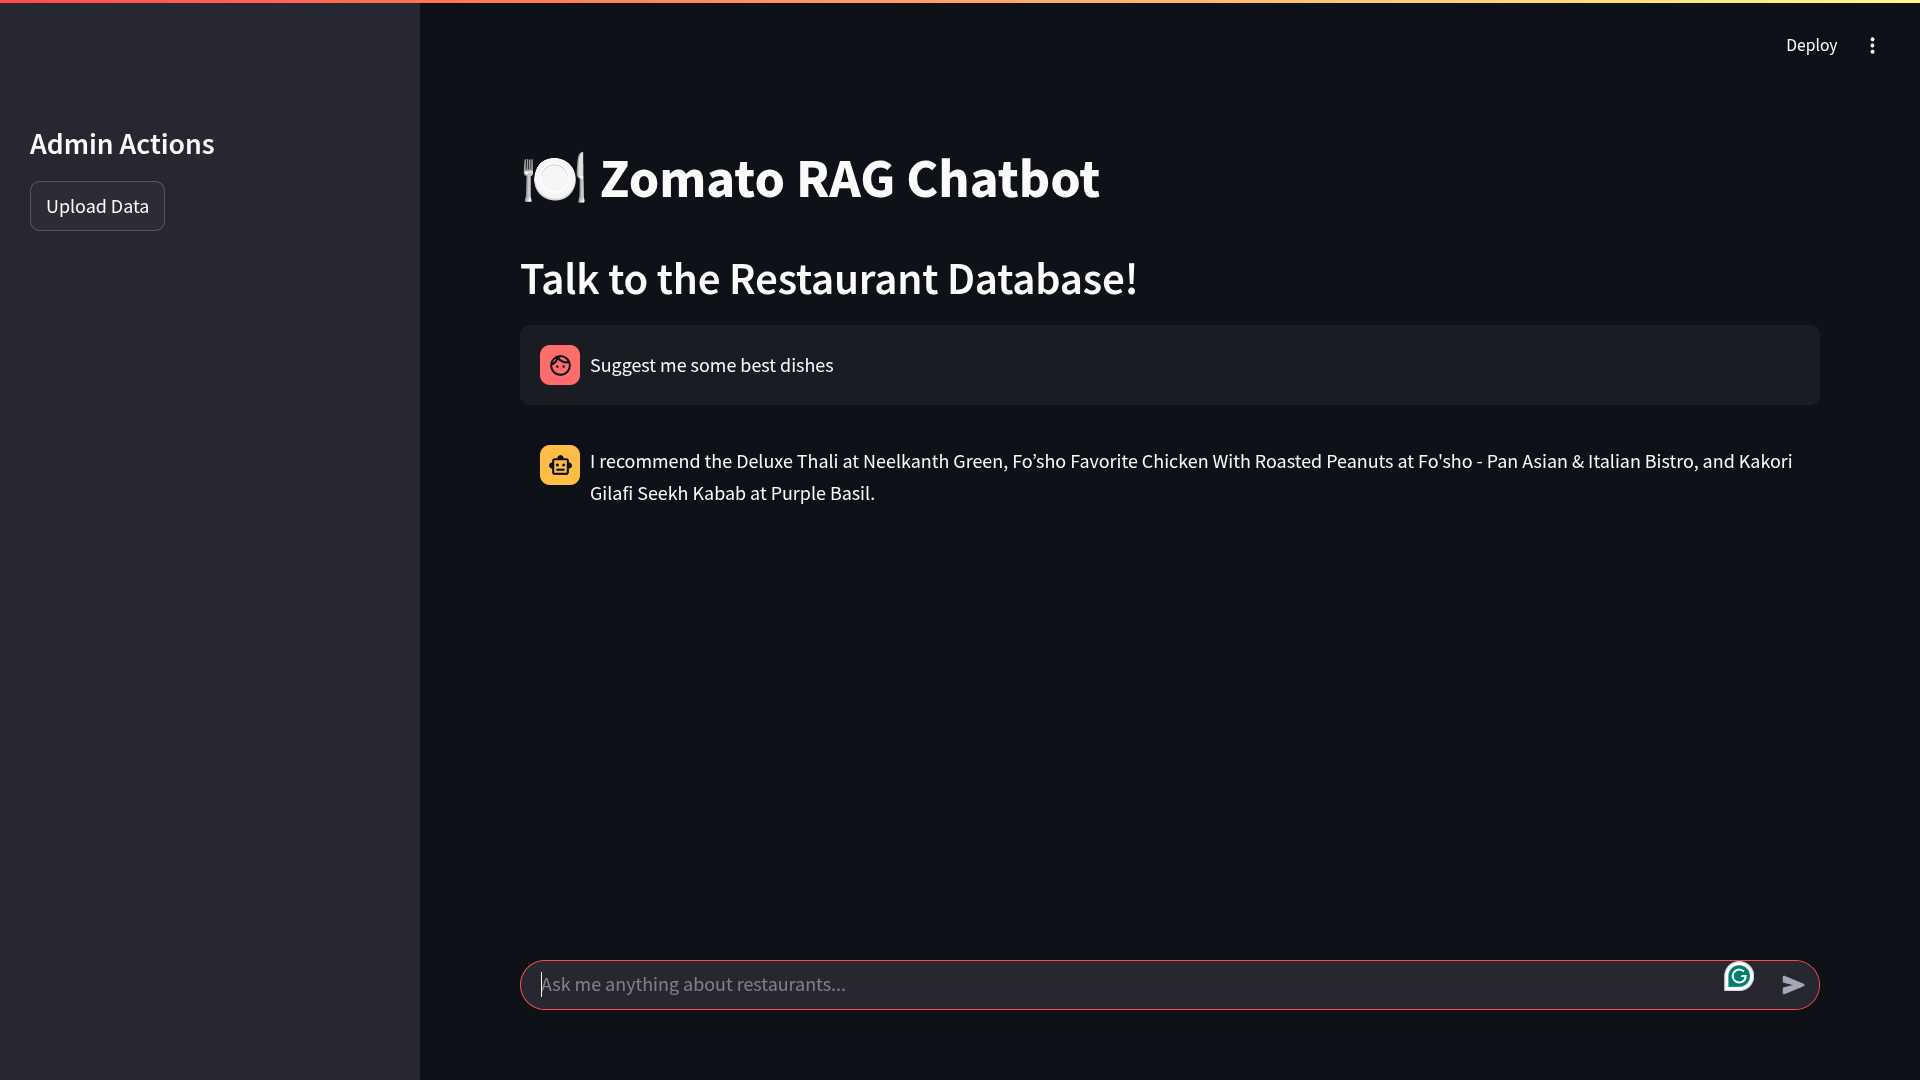
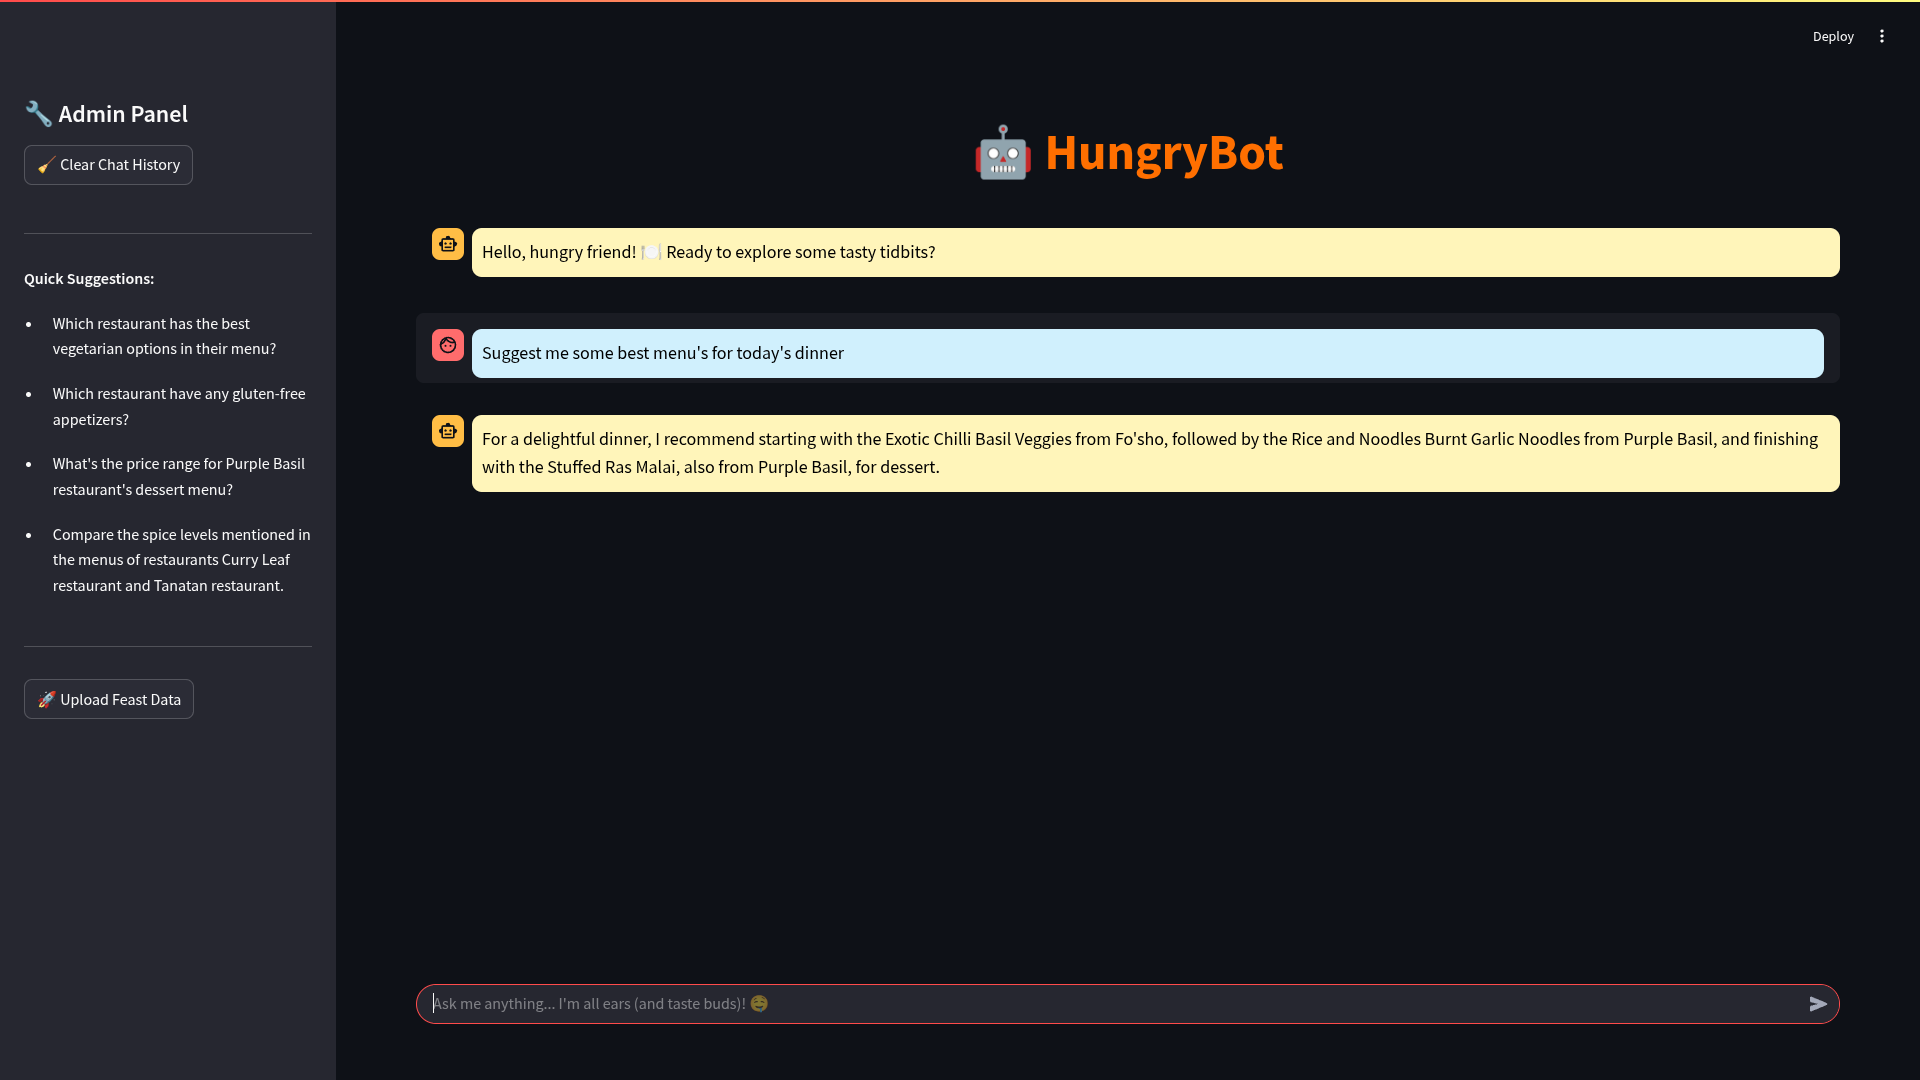
Update README and enhance Streamlit UI for HungryBot: add badges, improve layout, and refine chat interface

diff --git a/rag/main.py b/rag/main.py
@@ -15,7 +15,7 @@ from utils.llm import generate_content
 # Load environment variables
 load_dotenv()
 
-uri=os.getenv("MONGODB_URI")
+uri = os.getenv("MONGODB_URI")
 
 # MongoDB setup
 client = AsyncIOMotorClient(uri)
@@ -141,46 +141,94 @@ async def chat_bot(message):
 
     return response
 
-# ---------- STREAMLIT APP UI ----------
+# ---------- STREAMLIT APP UI (Improved) ----------
 
-st.set_page_config(page_title="Zomato RAG Chatbot", page_icon="🍽", layout="wide")
+st.set_page_config(page_title="🍽 HungryBot - Your Restaurant Guide", page_icon="🤖", layout="wide")
 
-st.title("🍽 Zomato RAG Chatbot")
+# Custom CSS for header and chat bubbles
+st.markdown("""
+    <style>
+    .header-title {
+        text-align: center;
+        font-size: 50px;
+        font-weight: bold;
+        color: #FF6F00;
+        margin-bottom: 20px;
+    }
+    .user-message {
+        background-color: #D0F0FD;
+        color: #000000;
+        padding: 10px;
+        border-radius: 10px;
+        margin-bottom: 5px;
+        font-size: 18px;
+    }
+    .bot-message {
+        background-color: #FFF5BA;
+        color: #000000;
+        padding: 10px;
+        border-radius: 10px;
+        margin-bottom: 20px;
+        font-size: 18px;
+    }
+    </style>
+""", unsafe_allow_html=True)
 
-# Sidebar
-st.sidebar.title("Admin Actions")
-if st.sidebar.button("Upload Data"):
-    with st.spinner("Uploading data..."):
+# Big Chatbot Name
+st.markdown("<div class='header-title'>🤖 HungryBot</div>", unsafe_allow_html=True)
+
+# Sidebar controls
+st.sidebar.title("🔧 Admin Panel")
+
+if st.sidebar.button("🧹 Clear Chat History"):
+    st.session_state.messages = []
+
+st.sidebar.markdown("---")
+st.sidebar.markdown("**Quick Suggestions:**")
+for suggestion in [
+    "Which restaurant has the best vegetarian options in their menu?",
+    "Which restaurant have any gluten-free appetizers?",
+    "What's the price range for Purple Basil restaurant's dessert menu?",
+    "Compare the spice levels mentioned in the menus of restaurants Curry Leaf restaurant and Tanatan restaurant."
+]:
+    st.sidebar.markdown(f"- {suggestion}")
+
+st.sidebar.markdown("---")
+if st.sidebar.button("🚀 Upload Feast Data"):
+    with st.spinner("Cooking up fresh data... 🍲"):
         loop.run_until_complete(upload_data())
-    st.sidebar.success("Data uploaded successfully!")
+    st.sidebar.success("Knowledgebase updated! 🎉")
 
-# Initialize chat history
+# Initialize chat history or show intro
 if "messages" not in st.session_state:
     st.session_state.messages = []
 
-# Chat interface
-st.header("Talk to the Restaurant Database!")
+if not st.session_state.messages:
+    with st.chat_message("assistant"):
+        st.markdown("<div class='bot-message'>Hello, hungry friend! 🍽 Ready to explore some tasty tidbits?</div>", unsafe_allow_html=True)
 
-for msg in st.session_state.messages:
-    if msg["role"] == "user":
-        with st.chat_message("user"):
-            st.markdown(msg["content"])
-    else:
-        with st.chat_message("assistant"):
-            st.markdown(msg["content"])
+# Display chat history (user and bot messages together)
+for i in range(0, len(st.session_state.messages), 2):
+    if i < len(st.session_state.messages):
+        user_msg = st.session_state.messages[i]
+        if user_msg["role"] == "user":
+            with st.chat_message("user"):
+                st.markdown(f"<div class='user-message'>{user_msg['content']}</div>", unsafe_allow_html=True)
+    if i + 1 < len(st.session_state.messages):
+        bot_msg = st.session_state.messages[i + 1]
+        if bot_msg["role"] == "assistant":
+            with st.chat_message("assistant"):
+                st.markdown(f"<div class='bot-message'>{bot_msg['content']}</div>", unsafe_allow_html=True)
 
 # User input
-if user_input := st.chat_input("Ask me anything about restaurants..."):
-    # Display user message
+if user_input := st.chat_input("Ask me anything... I'm all ears (and taste buds)! 🤤"):
     st.session_state.messages.append({"role": "user", "content": user_input})
     with st.chat_message("user"):
-        st.markdown(user_input)
+        st.markdown(f"<div class='user-message'>{user_input}</div>", unsafe_allow_html=True)
 
-    # Generate bot response
     with st.chat_message("assistant"):
-        with st.spinner("Thinking..."):
+        with st.spinner("Putting on my chef hat... 👩🍳"):
             bot_response = loop.run_until_complete(chat_bot(user_input))
-            st.markdown(bot_response)
+        st.markdown(f"<div class='bot-message'>{bot_response}</div>", unsafe_allow_html=True)
 
-    # Save assistant response
     st.session_state.messages.append({"role": "assistant", "content": bot_response})

diff --git a/Readme.md b/Readme.md
@@ -1,6 +1,31 @@
-# Zomato Restaurant RAG Chatbot 🍽
+# HungryBot: Restaurant Data Scraper & RAG-based Chatbot 🍽🤖
 
 An intelligent restaurant recommendation system that combines web scraping, RAG (Retrieval Augmented Generation), and a conversational interface to provide personalized dining suggestions.
+
+<div align="center">
+  
+[![Python](https://img.shields.io/badge/Python-3.8+-blue.svg)](https://www.python.org/downloads/)
+[![MongoDB](https://img.shields.io/badge/MongoDB-Latest-green.svg)](https://www.mongodb.com/)
+[![Streamlit](https://img.shields.io/badge/Streamlit-Latest-red.svg)](https://streamlit.io/)
+[![License](https://img.shields.io/badge/License-MIT-yellow.svg)](LICENSE)
+[![Pinecone](https://img.shields.io/badge/Pinecone-Latest-purple.svg)](https://www.pinecone.io/)
+[![Google Gemini](https://img.shields.io/badge/Gemini-AI-orange.svg)](https://deepmind.google/technologies/gemini/)
+[![FastAPI](https://img.shields.io/badge/FastAPI-0.68+-green.svg)](https://fastapi.tiangolo.com/)
+[![Playwright](https://img.shields.io/badge/Playwright-Latest-lightgrey.svg)](https://playwright.dev/)
+[![BeautifulSoup](https://img.shields.io/badge/BeautifulSoup4-Latest-blue.svg)](https://www.crummy.com/software/BeautifulSoup/)
+[![Motor](https://img.shields.io/badge/Motor-3.0+-darkgreen.svg)](https://motor.readthedocs.io/)
+
+</div>
+
+## 📑 Table of Contents
+- [Demo & Screenshots](#-screenshots--demo)
+- [Features](#-features)
+- [System Architecture](#-system-architecture)
+- [Technology Stack](#-technology-stack)
+- [Getting Started](#-getting-started)
+- [Technical Documentation](#-technical-documentation)
+- [Contributing](#-contributing)
+- [License](#-license)
 
 ## 📸 Screenshots & Demo
 
@@ -20,11 +45,11 @@ Check out our demo video to see the chatbot in action:
 
 #### Menu Exploration
 ![Menu Exploration](screenshots/menu-view.png)
-*Detailed menu view with prices and categories*
+*Detailed menu view*
 
-#### Upload Data Interface
-![Upload Data Interface](screenshots/upload-data.png)
-*Uploading new data*
+#### Upload Data
+![Upload Data](screenshots/upload-data.png)
+*Upload fresh data*
 
 ## 🌟 Features
 
@@ -62,10 +87,44 @@ Check out our demo video to see the chatbot in action:
 - Loading state indicators
 - Markdown formatting support
 
+## 🏗 System Architecture
+
+### High-Level Architecture
+```
+┌─────────────────┐     ┌─────────────────┐     ┌─────────────────┐
+│   Web Scraper   │ ──► │  Data Pipeline  │ ──► │  Vector Store   │
+└─────────────────┘     └─────────────────┘     └─────────────────┘
+                                                         ▲
+┌─────────────────┐     ┌─────────────────┐            │
+│    Streamlit    │ ◄─► │   RAG Engine    │ ───────────┘
+└─────────────────┘     └─────────────────┘
+```
+
+### Component Overview
+1. **Web Scraper Layer**
+   - Playwright for dynamic content
+   - Async scraping for performance
+   - Rate limiting and retry logic
+
+2. **Data Pipeline**
+   - MongoDB for structured storage
+   - Data cleaning and normalization
+   - Vector embedding generation
+
+3. **RAG Engine**
+   - Pinecone for vector similarity search
+   - Google Gemini for text generation
+   - Custom prompt engineering
+
+4. **Frontend Layer**
+   - Streamlit for UI rendering
+   - WebSocket for real-time updates
+   - Session management
+
 ## 🛠 Technology Stack
 
 ### Core Technologies
-- Python 3.x
+- Python 3.8+
 - MongoDB (with Motor for async operations)
 - Pinecone Vector Database
 - Google Gemini AI
@@ -80,21 +139,81 @@ Check out our demo video to see the chatbot in action:
 - Google Generative AI
 - Python-dotenv
 
-## 📋 Requirements
+## 📖 Technical Documentation
 
-```bash
-pymongo              # MongoDB driver
-pinecone-client      # Vector database client
-python-dotenv        # Environment management
-fastapi              # API framework
-playwright           # Web automation
-bs4                  # Web scraping
-requests             # HTTP client
-google-generativeai  # LLM integration
-streamlit            # UI framework
-motor                # Async MongoDB
-uvicorn              # ASGI server
-```
+### Implementation Details
+
+#### Data Flow
+1. **Scraping Pipeline**
+   ```python
+   URL → Playwright → Raw HTML → BeautifulSoup → Structured Data → MongoDB
+   ```
+
+2. **Query Processing**
+   ```python
+   User Query → Vector Embedding → Similarity Search → Context Building → LLM → Response
+   ```
+
+#### Design Decisions
+
+1. **Choice of Vector Store**
+   - Pinecone selected for:
+     - Low latency querying
+     - Scalability
+     - Simple integration
+     - Cost-effectiveness
+
+2. **Async Implementation**
+   - Used async/await for:
+     - Improved scraping performance
+     - Better resource utilization
+     - Enhanced UI responsiveness
+
+3. **LLM Selection**
+   - Google Gemini chosen for:
+     - Superior context understanding
+     - Cost-effective API
+     - Reliable performance
+
+### Challenges & Solutions
+
+1. **Vector Search Accuracy**
+   - Challenge: Imprecise restaurant and menu matching
+   - Solution: Implemented hybrid search combining restaurant and menu item vectors in Pinecone
+
+2. **Data Quality**
+   - Challenge: Inconsistent restaurant data formats
+   - Solution: Implemented Pydantic models with strict validation (`Restaurant` and `MenuItem` classes)
+
+3. **Response Latency**
+   - Challenge: Slow chat responses
+   - Solution: Implemented async operations with Motor and optimized Gemini prompt generation
+
+### Future Improvements
+
+1. **AI/ML Enhancements**
+   - Implement few-shot learning for better context understanding
+   - Add sentiment analysis for restaurant review summarization
+   - Develop personalized ranking algorithms using collaborative filtering
+   - Integrate multimodal embeddings for image-text matching
+
+2. **Advanced Features**
+   - Real-time price prediction using time-series analysis
+   - Cross-restaurant dish comparison using semantic similarity
+   - Dynamic menu recommendations based on user dietary preferences
+   - AR-based dish visualization using mobile camera integration
+
+3. **System Architecture**
+   - Implement event-driven architecture using Apache Kafka
+   - Add vector database sharding for horizontal scaling
+   - Deploy microservices using Kubernetes
+   - Implement GraphQL API for flexible data querying
+
+4. **User Experience**
+   - Voice-based conversational interface
+   - Location-aware contextual recommendations
+   - Social features for sharing and group ordering
+   - Progressive Web App (PWA) for offline capabilities
 
 ## 🚀 Getting Started
 
@@ -135,46 +254,6 @@ cd rag
 streamlit run main.py
 ```
 
-## 🏗 Project Structure
-
-```
-.
-├── scraper/
-│   ├── scrapers/
-│   │   ├── info_scraper.py
-│   │   └── menu_scraper.py
-│   ├── knowledge_base/
-│   │   └── build_kb.py
-│   └── main.py
-├── rag/
-│   ├── db/
-│   │   └── pine_utils.py
-│   ├── models/
-│   │   ├── restaurant.py
-│   │   └── menu_item.py
-│   ├── utils/
-│   │   ├── generatePrompt.py
-│   │   └── llm.py
-│   └── main.py
-└── requirements.txt
-```
-
-## 💡 Usage
-
-1. **Data Collection**:
-   - Add restaurant URLs to `scraper/main.py`
-   - Run the scraper to collect data
-   - Data is saved in JSON format
-
-2. **Knowledge Base**:
-   - Raw data is processed into a structured format
-   - Vector embeddings are created for efficient retrieval
-
-3. **Chat Interface**:
-   - Access the Streamlit interface
-   - Ask questions about restaurants
-   - Get AI-powered recommendations
-
 ## 🤝 Contributing
 
 1. Fork the repository
@@ -185,4 +264,8 @@ streamlit run main.py
 
 ## 📝 License
 
-This project is licensed under the MIT License - see the LICENSE file for details
+This project is licensed under the MIT License - see the [LICENSE](LICENSE) file for details.
+
+## 📞 Support
+
+For support, email 7055ranamanish@gmail.com.
